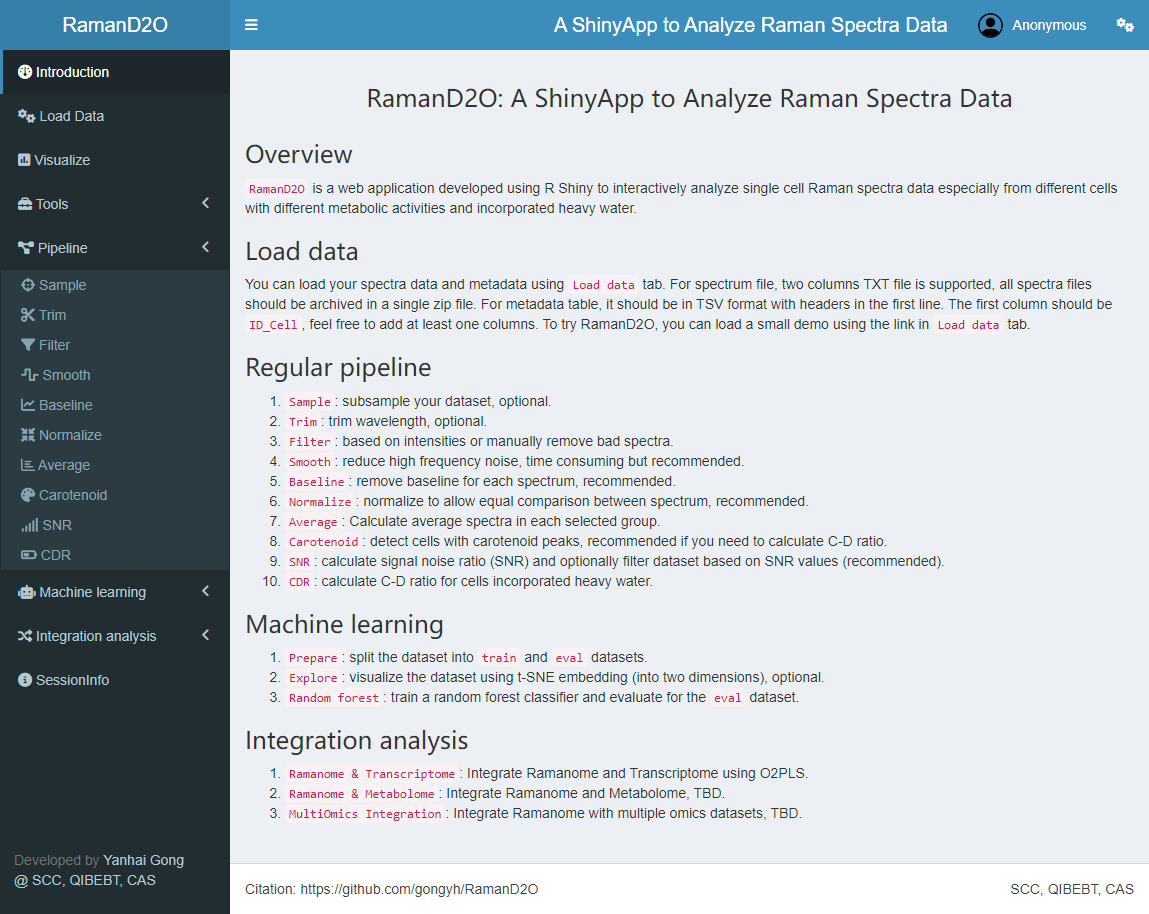
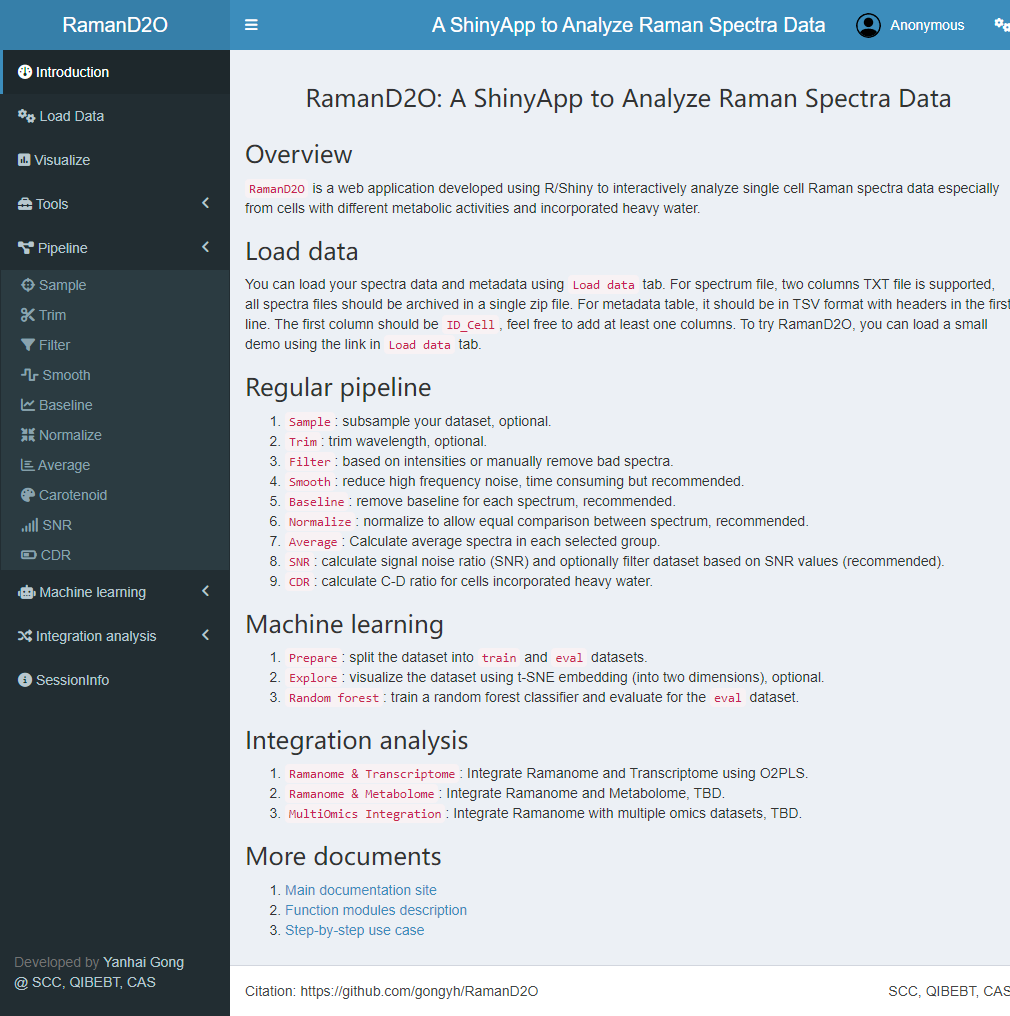
refine docs

Changed region(s): [[0.0, 0.0, 1.0, 1.0], [0.8594, 0.9497, 1.0, 0.9803], [0.0, 0.7352, 0.0921, 0.7659]]

diff --git a/usage.md b/usage.md
@@ -6,31 +6,64 @@ RamanD2O supplies a small dataset for testing.
 
 Just click "Quick start, click here to load a small demo dataset.", a small dataset with 25 spectra will be loaded. This dataset can be grouped using metadata columns "Timepoint" or "Label". There are three groups: I245_0mM, I245_0.5mM, and I245_1mM.
 
+![User interface of Data Loader](Load_data.png)
+
 ## 2. Trim wavelength
 
 Raman shift of 450~3100 cm<sup>-1</sup> are kept for subsequent analysis.
+
+![User interface of Trim](Trim_wavelength.png)
 
 ## 3. Spectra smoothing
 
 Raman spectra are smoothed using SG method to increase SNR.
 
+![User interface of Smoothing](Smooth_SG.png)
+
 ## 4. Baseline removal
 
 Baselines are removed using als method.
+
+![User interface of Baseline removal](Baseline_als.png)
 
 ## 5. Normalization
 
 Raman spectra are normalized according the area of "Fingerprint" region.
 
+![User interface of Normalization](Normalize.png)
+
 ## 6. SNR calculation
 
 SNR of each Raman spectra is calculated using the "new" method. Low-SNR spectra with SNR<2.5 are removed.
+
+![User interface of SNR calculation](SNR_new.png)
 
 ## 7. CDR calculation
 
 CDR of each spectra are calculated. As expected, all the spectra have D2O Raman peaks.
 
+![User interface of CDR calculation](CDR.png)
+
 ## 8. Visualization
 
 The average spectra and CDR can be visualized and compared.
 
+![User interface of Visualize](Visualize_agg.png)
+
+![User interface of Visualize](Visualize_CDR.png)
+
+## 9. Multivariable statistics
+
+This Raman spectra dataset can be further mined using multivariable statistics, e.g., PCA, LDA and MCR.
+
+![User interface of PCA-LDA](PCA_LDA.png)
+
+## 10. Machine learning
+
+To test whether Fingerprint region can be used to separate these three groups, a random forest model is trained and evaluated.
+
+![User interface of Machine learning](ML_prepare.png)
+
+![User interface of Machine learning](ML_tSNE.png)
+
+![User interface of Machine learning](ML_rf.png)
